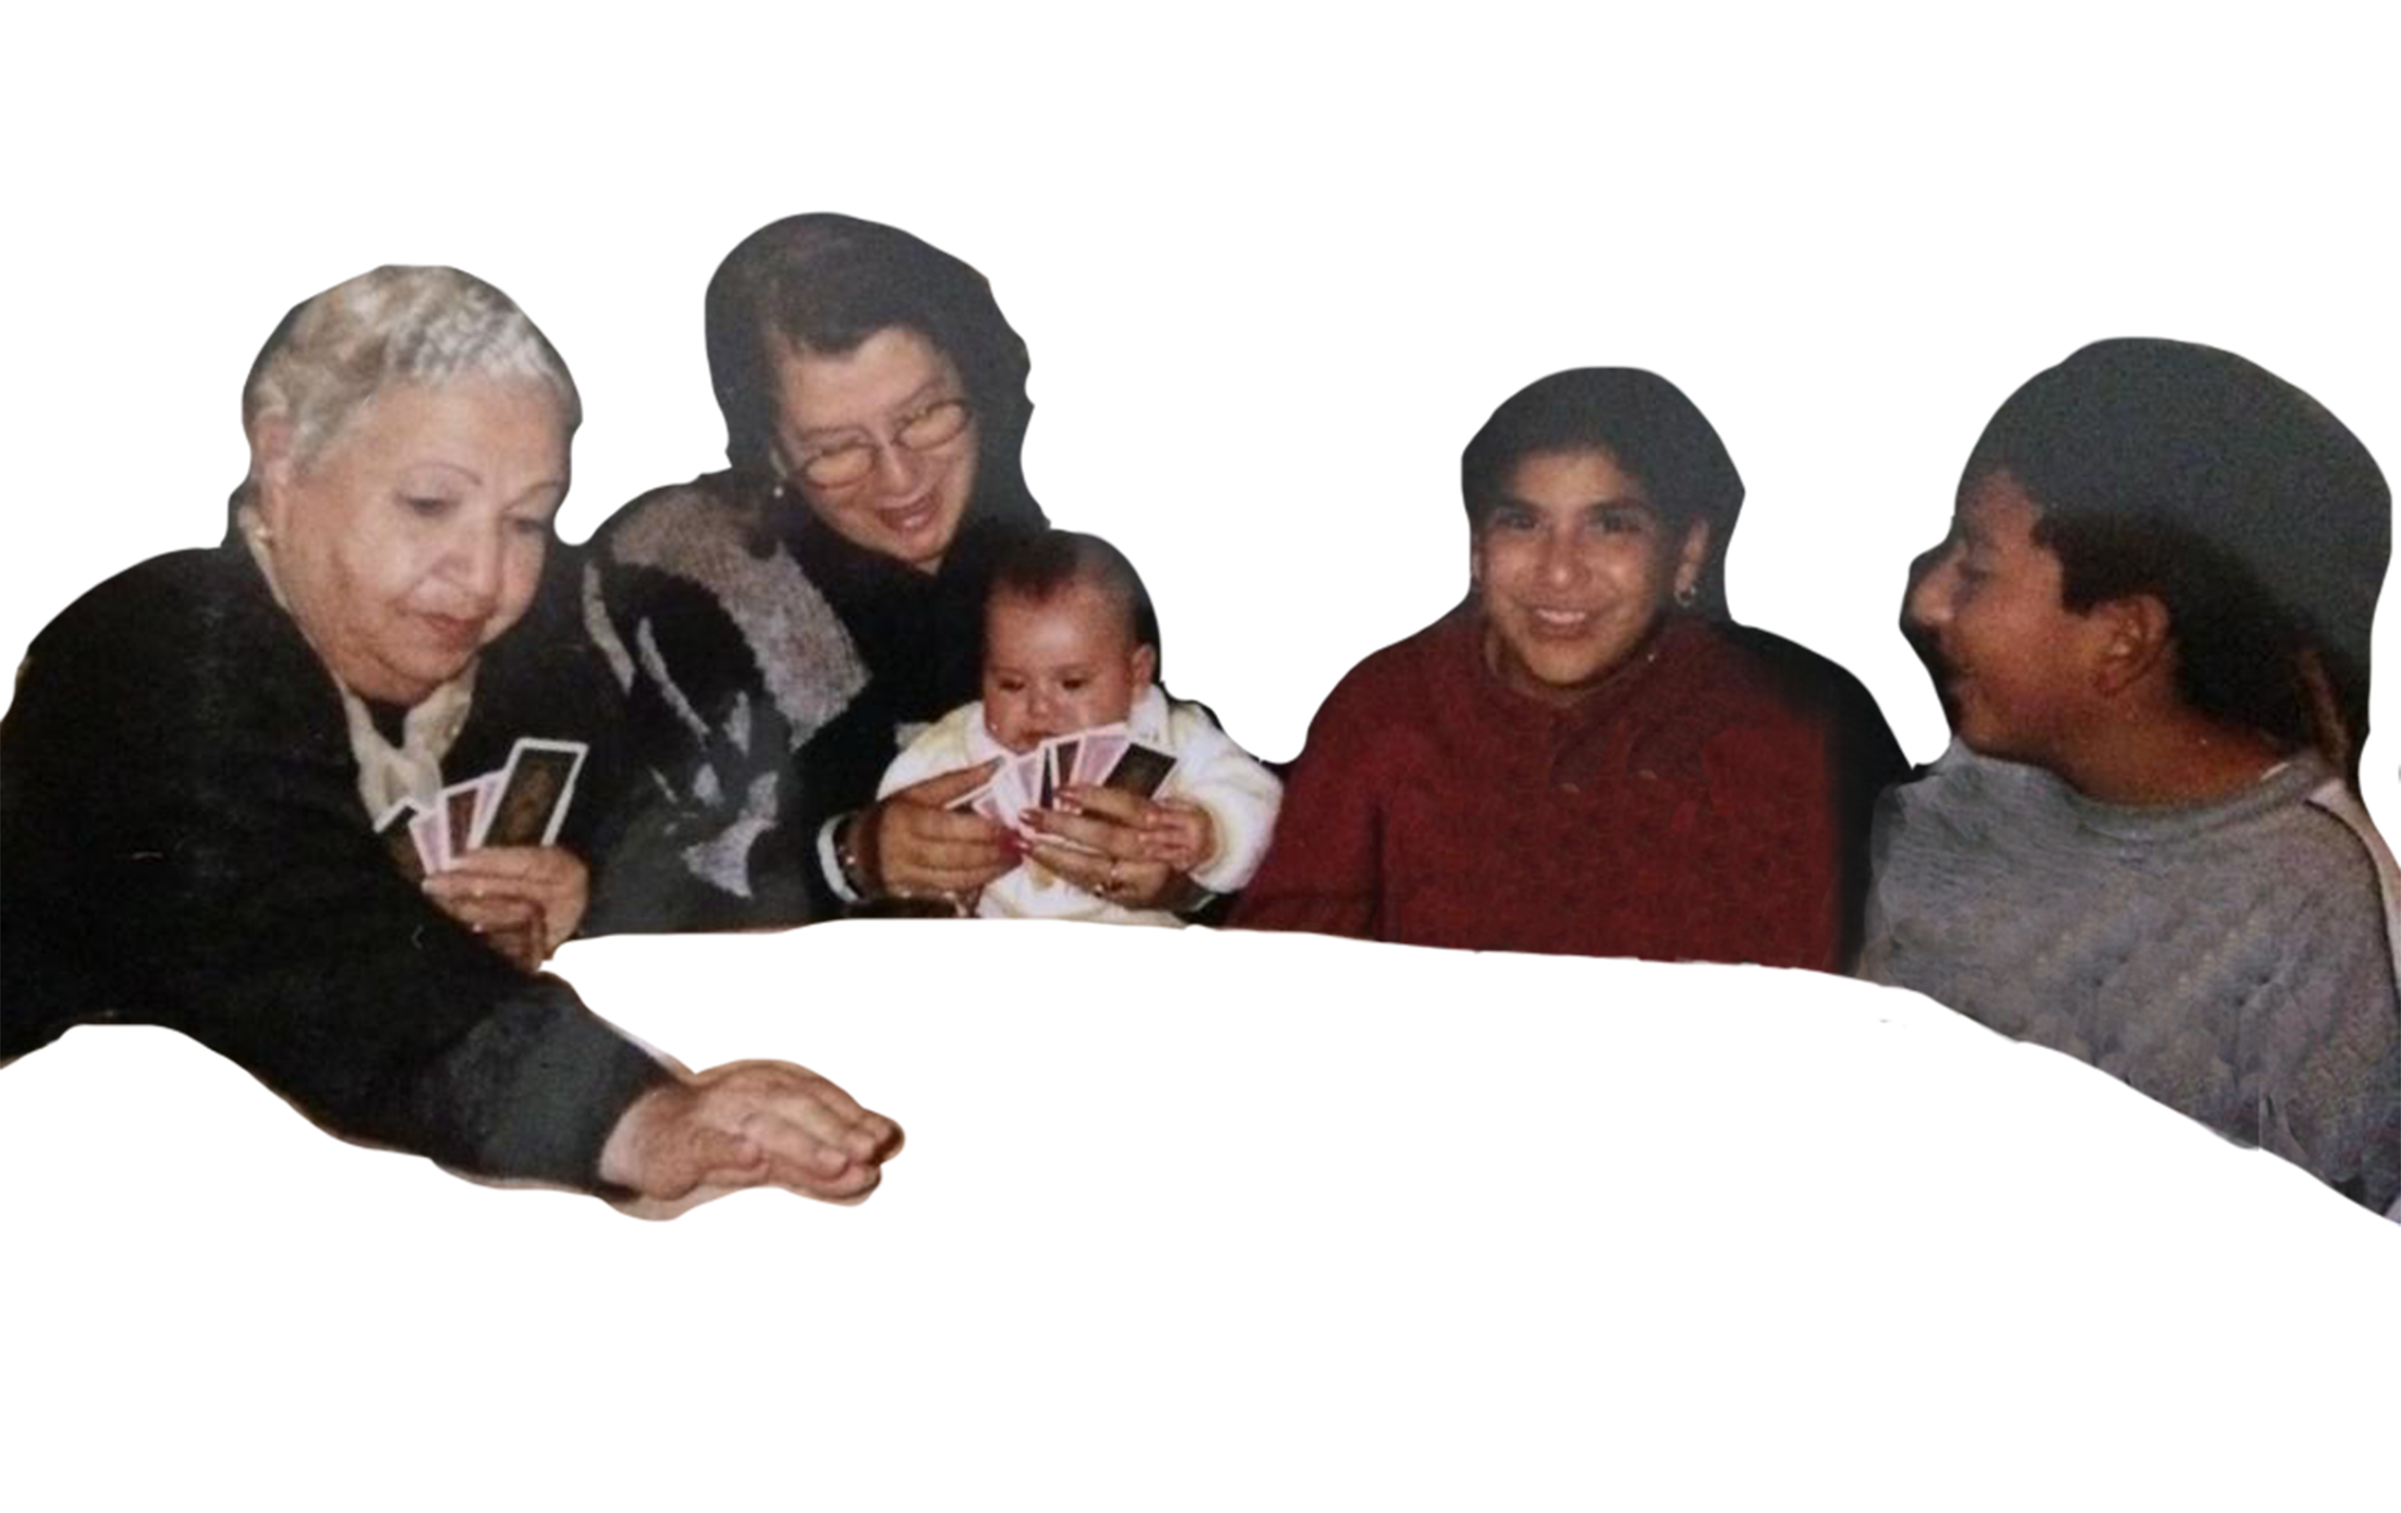
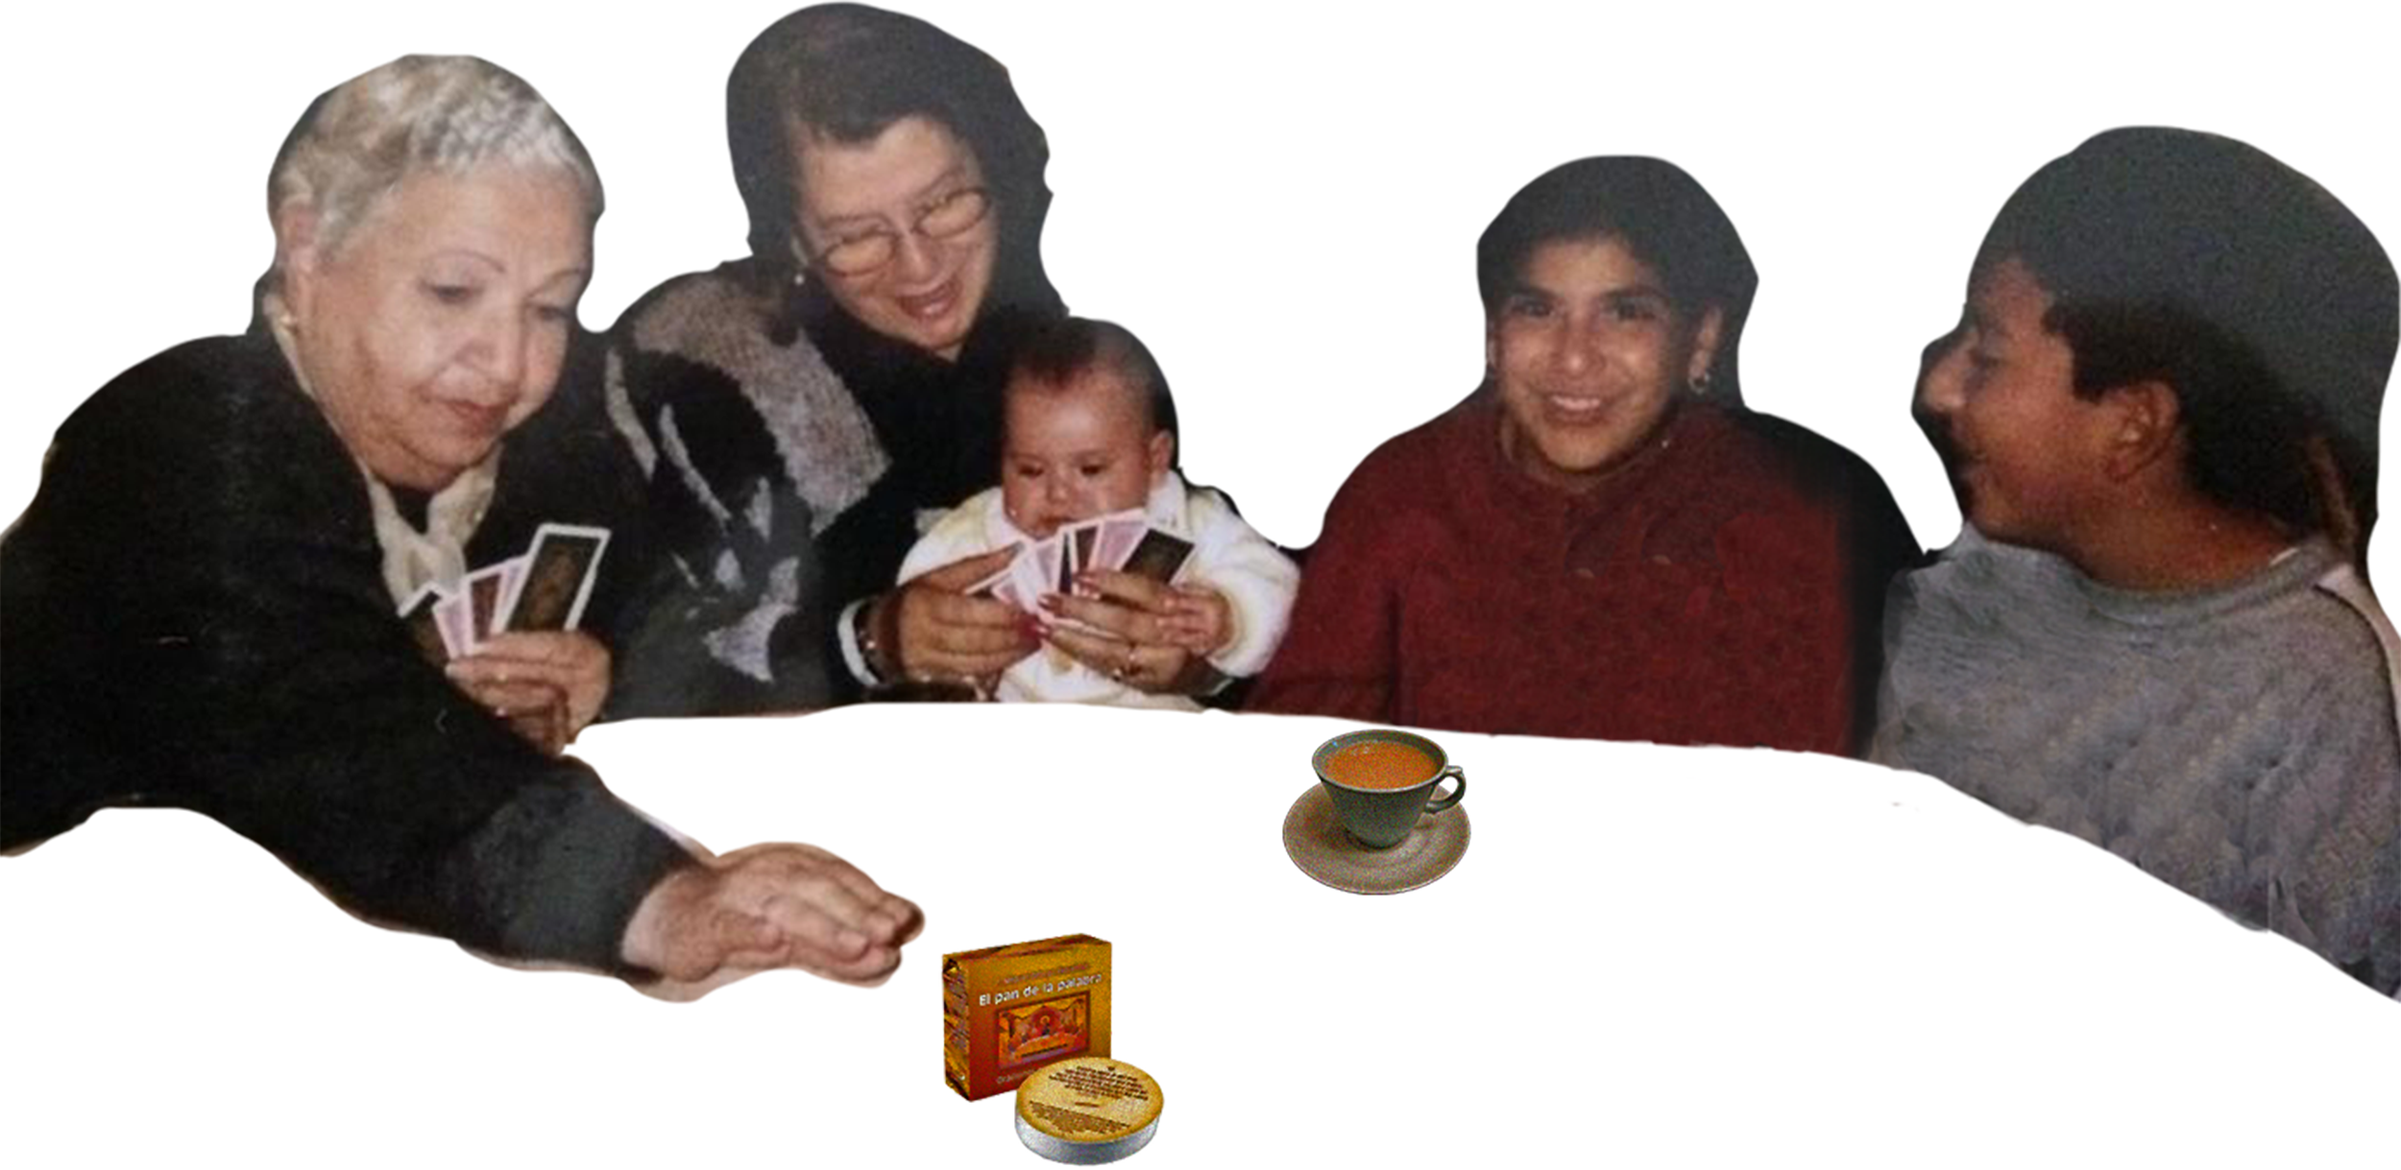
photo adjustments

diff --git a/index.html b/index.html
@@ -14,8 +14,8 @@
     <img src="src/familia.png" id="familia" alt="familia">
     <img src="src/anue.gif" id="anue" alt="año nuevo">
     <img src="src/bodaMEM.gif" id="boda" alt="boda">
-    <img src="src/tea.png" id="tea" alt="tea">
-    <img src="src/panpalabra.png" id="pan" alt="pan de la palabra">
+    <!-- <img src="src/tea.png" id="tea" alt="tea">
+    <img src="src/panpalabra.png" id="pan" alt="pan de la palabra"> -->
 
 </body>
 <script src="audio.js"></script>
